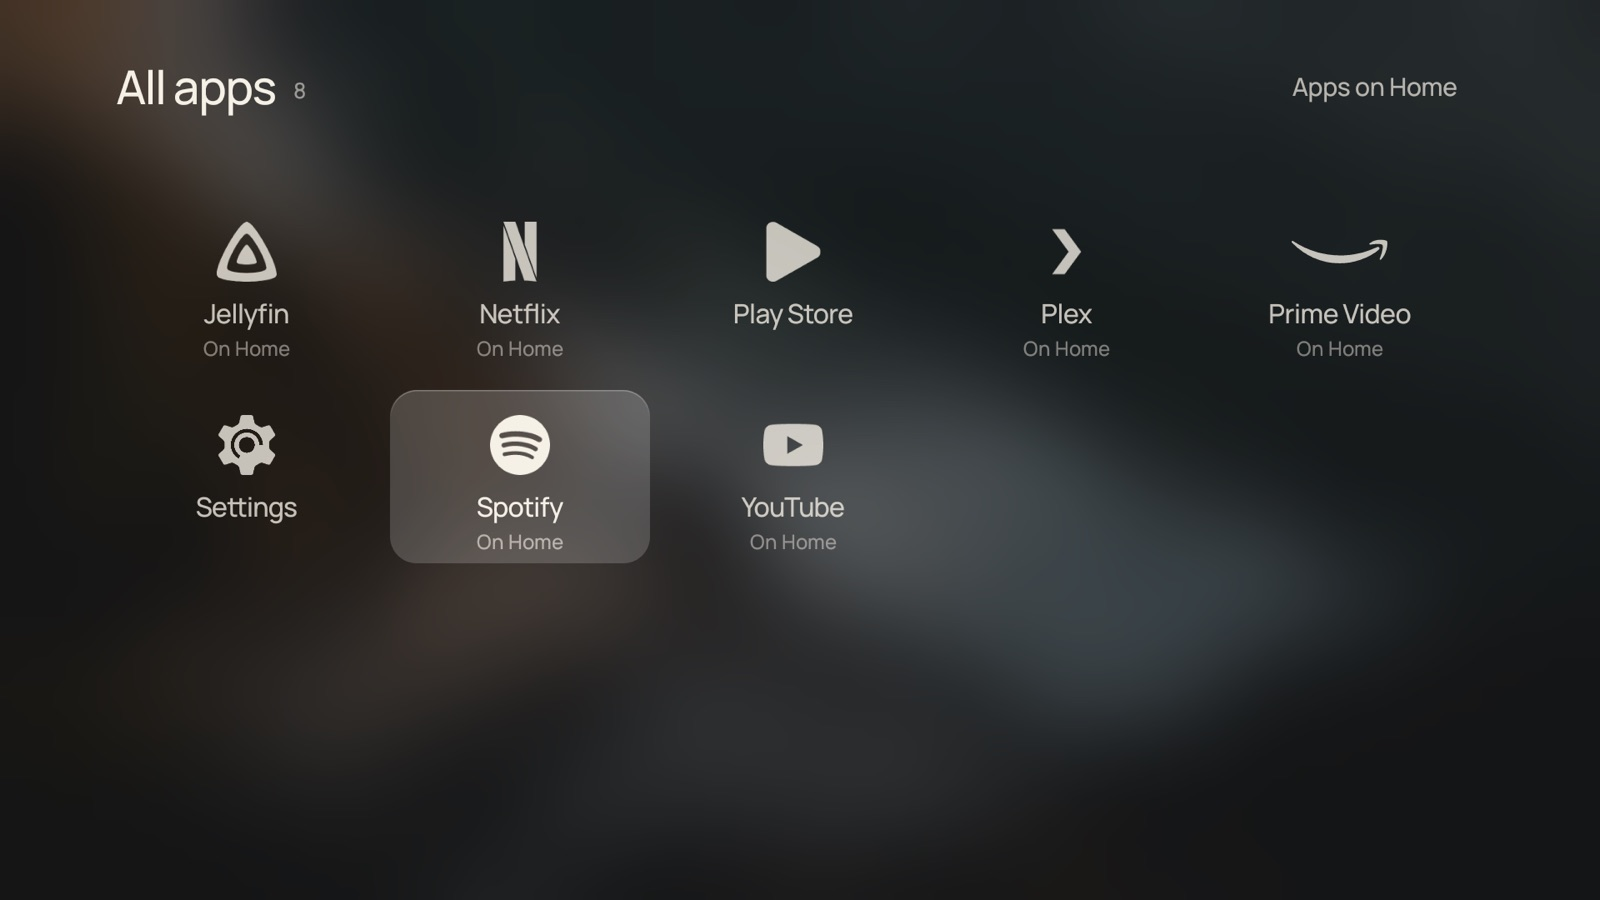
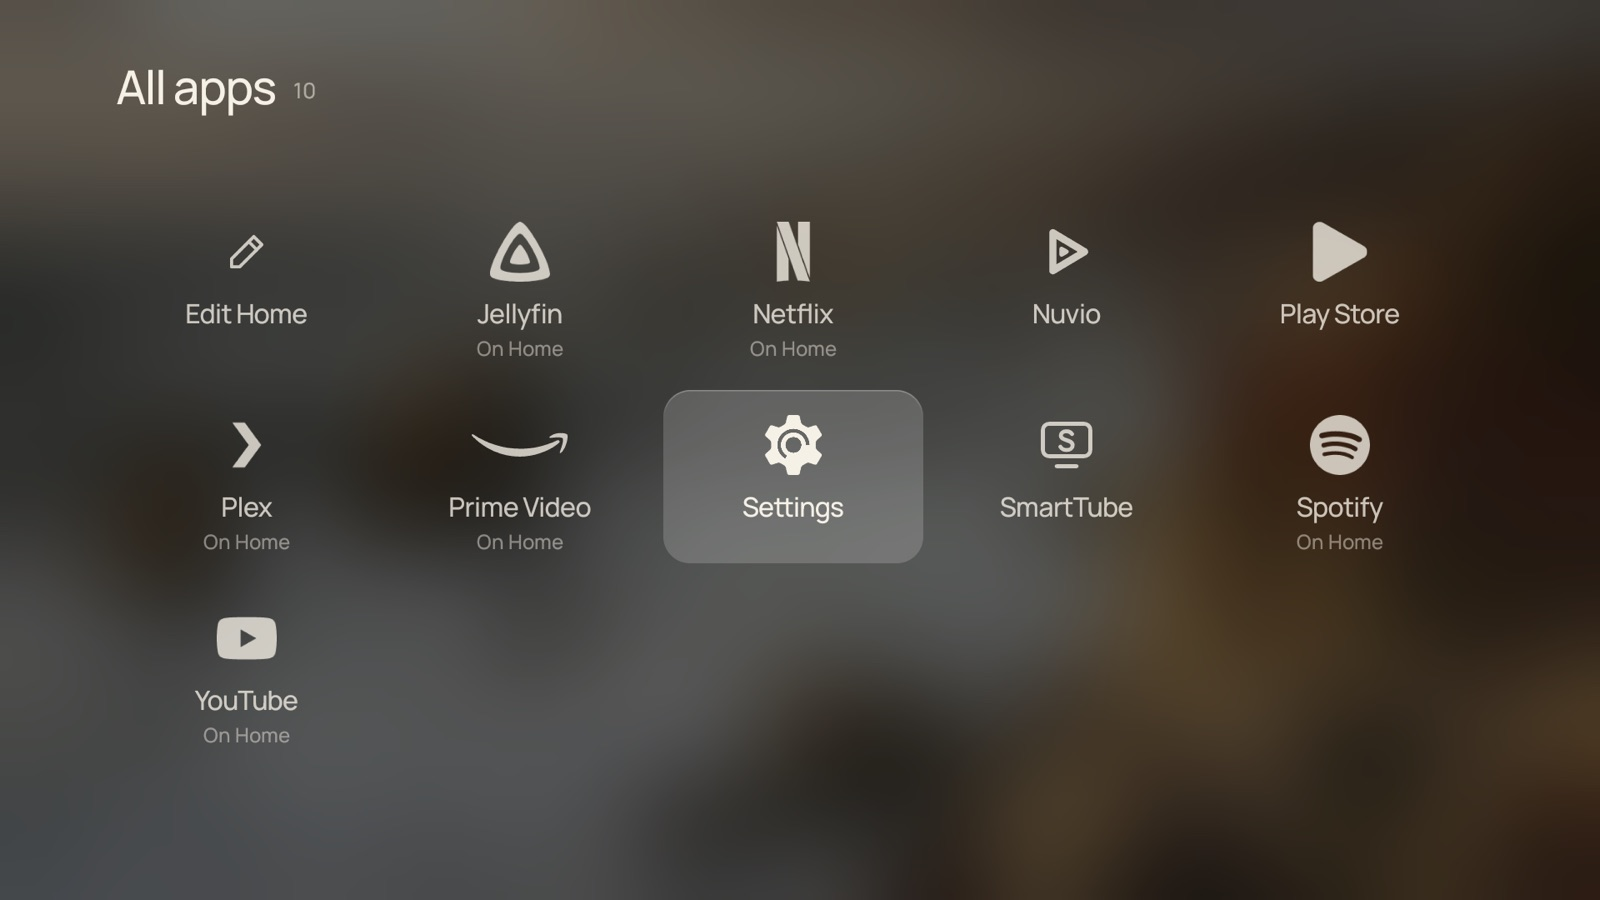
Actions as tiles in the grid, not header buttons
All apps starts with an Edit Home tile, the button picker with Default
(the button's own job), and When the TV turns on with Show Home. The
focus opens on the current choice, which has a Current badge. The
Remove and Apps on Home buttons outside the grid are gone. New edit
and default icons; README text and screenshots updated.

diff --git a/src/io/github/fballiano/quiethome/AllAppsScreen.java b/src/io/github/fballiano/quiethome/AllAppsScreen.java
@@ -8,67 +8,61 @@ import android.graphics.RectF;
 import android.graphics.Typeface;
 
 import java.util.ArrayList;
+import java.util.Collections;
 import java.util.List;
 
 /**
- * Every installed app and HDMI input in a five-column grid. OK opens, holding OK closes, and Up
- * from the first row reaches Apps on Home. As a picker it chooses what a mapped button does:
- * the button actions come first, then the apps and inputs.
+ * Every installed app and HDMI input in a five-column grid. OK opens and holding OK closes. As a
+ * picker it chooses one item, for example what a mapped button does. Actions are tiles at the
+ * start of the grid, never buttons outside it, so the arrows reach everything the same way.
  */
 final class AllAppsScreen extends Screen {
     interface Picker {
         void pick(String id);
-
-        void remove();
     }
 
     private static final int COLS = 5, VISIBLE_ROWS = 3;
     private static final float LEFT = 140, TOP = 236, TILE_W = 312, TILE_H = 208, PITCH_X = 328, PITCH_Y = 232;
 
     private final Picker picker;
-    private final boolean actions;
+    /** The tiles before the apps: Edit Home in All apps, the choices that are not apps in a picker. */
+    private final List<Catalog.Entry> lead;
     private final String title;
-    private final String assigned;
+    /** The picker's current choice: it gets the Current badge, and the focus starts on it. */
+    private final String current;
     private final List<Catalog.Entry> list = new ArrayList<>();
     private final Ui.Anim scroll = new Ui.Anim(Ui.SCROLL_MS), plateX = new Ui.Anim(Ui.FOCUS_MS), plateY = new Ui.Anim(Ui.FOCUS_MS);
     private final RectF r = new RectF();
-    private int focus, lastFocus;
+    private int focus;
     private boolean snap = true;
 
-    AllAppsScreen(Stage stage, Picker picker) {
-        this(stage, picker, "All apps", null);
-    }
-
-    /** A picker; assigned is the current choice, which gets a Remove button. */
-    AllAppsScreen(Stage stage, Picker picker, String title, String assigned) {
-        this(stage, picker, title, assigned, true);
-    }
-
-    /** A picker that offers only apps and inputs, without the button actions. */
-    AllAppsScreen(Stage stage, Picker picker, String title, String assigned, boolean actions) {
-        super(stage);
-        this.actions = actions;
-        this.picker = picker;
-        this.title = title;
-        this.assigned = assigned;
-        refresh();
-        if (assigned != null) for (int i = 0; i < list.size(); i++) if (list.get(i).id.equals(assigned)) focus = i;
+    /** All apps: Edit Home, then the apps. The focus starts on the first app. */
+    AllAppsScreen(Stage stage) {
+        this(stage, null, "All apps", Collections.singletonList(new Catalog.Entry(Catalog.ACTION_EDIT, "Edit Home", null, null)), null);
+        if (list.size() > 1) focus = 1;
         targets();
     }
 
-    private boolean hasButton() {
-        return picker == null || assigned != null;
+    /** A picker: the lead tiles, then the apps and inputs. */
+    AllAppsScreen(Stage stage, Picker picker, String title, List<Catalog.Entry> lead, String current) {
+        super(stage);
+        this.picker = picker;
+        this.title = title;
+        this.lead = lead;
+        this.current = current;
+        refresh();
+        for (int i = 0; i < list.size(); i++) if (list.get(i).id.equals(current)) focus = i;
+        targets();
     }
 
     @Override
     void refresh() {
-        String focused = focus >= 0 && focus < list.size() ? list.get(focus).id : null;
+        String focused = focus < list.size() ? list.get(focus).id : null;
         list.clear();
-        if (picker != null && actions) list.addAll(Catalog.actions());
+        list.addAll(lead);
         list.addAll(stage.catalog.all());
         if (focus >= list.size()) focus = list.size() - 1;
         for (int i = 0; i < list.size(); i++) if (list.get(i).id.equals(focused)) focus = i;
-        if (list.isEmpty()) focus = hasButton() ? -1 : 0;
         targets();
     }
 
@@ -80,17 +74,11 @@ final class AllAppsScreen extends Screen {
     @Override
     void move(int dx, int dy) {
         int n = list.size();
-        if (focus < 0) {
-            if (dy > 0 && n > 0) focus = Math.min(lastFocus, n - 1);
-        } else if (dx != 0) {
+        if (dx != 0) {
             int next = focus + dx;
             if (next >= 0 && next < n && next / COLS == focus / COLS) focus = next;
         } else if (dy < 0) {
             if (focus >= COLS) focus -= COLS;
-            else if (hasButton()) {
-                lastFocus = focus;
-                focus = -1;
-            }
         } else if (dy > 0) {
             if (focus + COLS < n) focus += COLS;
             else if ((n - 1) / COLS > focus / COLS) focus = n - 1;
@@ -99,7 +87,6 @@ final class AllAppsScreen extends Screen {
     }
 
     private void targets() {
-        if (focus < 0) return;
         int row = focus / COLS, rows = (list.size() + COLS - 1) / COLS;
         float s = scroll.target;
         if (row < s) s = row;
@@ -111,20 +98,19 @@ final class AllAppsScreen extends Screen {
 
     @Override
     boolean holdable() {
-        return picker == null && focus >= 0;
+        return picker == null && focus < list.size() && !Catalog.isAction(list.get(focus).id);
     }
 
     @Override
     void ok() {
-        if (focus < 0) {
-            if (picker != null) picker.remove();
-            else stage.open(new EditorScreen(stage));
-            return;
-        }
         if (list.isEmpty()) return;
         Catalog.Entry e = list.get(focus);
         if (picker != null) {
             picker.pick(e.id);
+            return;
+        }
+        if (Catalog.ACTION_EDIT.equals(e.id)) {
+            stage.open(new EditorScreen(stage));
             return;
         }
         String error = stage.catalog.launch(e.id);
@@ -134,7 +120,7 @@ final class AllAppsScreen extends Screen {
 
     @Override
     void okLong() {
-        if (focus < 0 || list.isEmpty()) return;
+        if (!holdable()) return;
         Catalog.Entry e = list.get(focus);
         String error = stage.catalog.close(e.id);
         stage.toast(error != null ? error : "Closed " + Catalog.title(e) + ".");
@@ -161,21 +147,12 @@ final class AllAppsScreen extends Screen {
         ui.text(regular, 56, -1.6f, ink, 1);
         float w = ui.line(c, title, LEFT, ui.baseline(104), 1200, -1);
         ui.text(regular, 26, 0, ink, 0.55f);
-        if (picker == null) ui.line(c, String.valueOf(list.size()), LEFT + w + 20, ui.baseline(108), 0, -1);
-        if (hasButton()) {
-            String label = picker == null ? "Apps on Home" : "Remove";
-            ui.text(regular, 30, -0.3f, ink, 1);
-            float bw = ui.width(label) + 60;
-            r.set(LEFT + 1640 - bw, 72, LEFT + 1640, 136);
-            if (focus < 0) ui.plate(c, r, 32, bg, 1);
-            ui.text(regular, 30, -0.3f, ink, focus < 0 ? 1 : 0.7f);
-            ui.line(c, label, r.centerX(), ui.baseline(r.centerY()), 0, 0);
-        }
+        if (picker == null) ui.line(c, String.valueOf(list.size() - lead.size()), LEFT + w + 20, ui.baseline(108), 0, -1);
 
         c.save();
         c.clipRect(0, TOP - 24, Ui.W, Ui.H);
         float sy = scroll.value;
-        if (focus >= 0) {
+        if (!list.isEmpty()) {
             float x = LEFT + plateX.value * PITCH_X, y = TOP + (plateY.value - sy) * PITCH_Y;
             r.set(x, y, x + TILE_W, y + TILE_H);
             ui.plate(c, r, 32, bg, 1);
@@ -190,15 +167,12 @@ final class AllAppsScreen extends Screen {
             stage.drawMark(c, e, cx - 60, y + 30, 120, 72, ink, a);
             ui.text(regular, 32, -0.6f, ink, a);
             ui.line(c, Catalog.title(e), cx, ui.baseline(y + 140), TILE_W - 24, 0);
-            String state = picker == null ? (home.contains(e.id) ? "On Home" : null) : (e.id.equals(assigned) ? "Assigned" : null);
+            String state = picker == null ? (home.contains(e.id) ? "On Home" : null)
+                : e.id.equals(current) ? "Current" : Catalog.ACTION_DEFAULT.equals(e.id) ? "Its own job" : null;
             if (state != null) {
                 ui.text(regular, 24, 0, ink, 0.6f * a);
                 ui.line(c, state, cx, ui.baseline(y + 182), 0, 0);
             }
-        }
-        if (list.isEmpty()) {
-            ui.text(regular, 36, -0.6f, ink, 0.7f);
-            ui.line(c, "No apps found.", LEFT, ui.baseline(TOP + 60), 0, -1);
         }
         c.restore();
         return moving;

diff --git a/src/io/github/fballiano/quiethome/SettingsScreen.java b/src/io/github/fballiano/quiethome/SettingsScreen.java
@@ -9,6 +9,7 @@ import android.graphics.RectF;
 import android.graphics.Typeface;
 
 import java.util.ArrayList;
+import java.util.Collections;
 import java.util.List;
 import java.util.Map;
 import java.util.function.BooleanSupplier;
@@ -223,47 +224,36 @@ final class SettingsScreen extends Screen {
     /** For a TV that only shows a box on HDMI: open that input (or an app) at boot and on wake. */
     private void pickStartOn() {
         String current = stage.prefs.get(Prefs.START_ON);
+        List<Catalog.Entry> lead = Collections.singletonList(new Catalog.Entry(Catalog.ACTION_HOME, "Show Home", null, null));
         AllAppsScreen[] picker = new AllAppsScreen[1];
-        picker[0] = new AllAppsScreen(stage, new AllAppsScreen.Picker() {
-            @Override
-            public void pick(String id) {
-                stage.prefs.set(Prefs.START_ON, id);
-                stage.close(picker[0]);
-                Catalog.Entry e = stage.catalog.get(id);
-                stage.toast("The TV opens " + (e == null ? id : Catalog.title(e)) + " when it turns on.");
-            }
-
-            @Override
-            public void remove() {
-                stage.prefs.set(Prefs.START_ON, "");
-                stage.close(picker[0]);
-                stage.toast("The TV shows Home when it turns on.");
-            }
-        }, "Open when the TV turns on", current.isEmpty() ? null : current, false);
+        picker[0] = new AllAppsScreen(stage, id -> {
+            boolean home = Catalog.ACTION_HOME.equals(id);
+            stage.prefs.set(Prefs.START_ON, home ? "" : id);
+            stage.close(picker[0]);
+            Catalog.Entry e = stage.catalog.get(id);
+            stage.toast(home ? "The TV shows Home when it turns on."
+                : "The TV opens " + (e == null ? id : Catalog.title(e)) + " when it turns on.");
+        }, "Open when the TV turns on", lead, current.isEmpty() ? Catalog.ACTION_HOME : current);
         stage.open(picker[0]);
     }
 
     /** Chooses, changes or removes what a mapped button does. */
     private void pick(int code) {
         String name = RemoteButtons.name(code);
+        String current = stage.prefs.buttons().get(code);
+        List<Catalog.Entry> lead = new ArrayList<>();
+        lead.add(new Catalog.Entry(Catalog.ACTION_DEFAULT, "Default", null, null));
+        lead.addAll(Catalog.actions());
         AllAppsScreen[] picker = new AllAppsScreen[1];
-        picker[0] = new AllAppsScreen(stage, new AllAppsScreen.Picker() {
-            @Override
-            public void pick(String id) {
-                stage.prefs.setButton(code, id);
-                stage.close(picker[0]);
-                Catalog.Entry e = stage.catalog.get(id);
-                stage.toast(Catalog.ACTION_NONE.equals(id) ? name + " now does nothing."
-                    : name + " opens " + (e == null ? id : Catalog.title(e)) + ".");
-            }
-
-            @Override
-            public void remove() {
-                stage.prefs.setButton(code, null);
-                stage.close(picker[0]);
-                stage.toast(name + " is free again.");
-            }
-        }, "Choose what " + name + " does", stage.prefs.buttons().get(code));
+        picker[0] = new AllAppsScreen(stage, id -> {
+            boolean free = Catalog.ACTION_DEFAULT.equals(id);
+            stage.prefs.setButton(code, free ? null : id);
+            stage.close(picker[0]);
+            Catalog.Entry e = stage.catalog.get(id);
+            stage.toast(free ? name + " does its own job again."
+                : Catalog.ACTION_NONE.equals(id) ? name + " now does nothing."
+                : name + " opens " + (e == null ? id : Catalog.title(e)) + ".");
+        }, "Choose what " + name + " does", lead, current == null ? Catalog.ACTION_DEFAULT : current);
         stage.open(picker[0]);
     }
 

diff --git a/src/io/github/fballiano/quiethome/Stage.java b/src/io/github/fballiano/quiethome/Stage.java
@@ -256,7 +256,9 @@ final class Stage extends View {
         }
         if (Catalog.isAction(e.id)) {
             int mark = Catalog.ACTION_HOME.equals(e.id) ? R.drawable.icon_home
-                : Catalog.ACTION_SETTINGS.equals(e.id) ? R.drawable.icon_tvsettings : R.drawable.icon_none;
+                : Catalog.ACTION_SETTINGS.equals(e.id) ? R.drawable.icon_tvsettings
+                : Catalog.ACTION_DEFAULT.equals(e.id) ? R.drawable.icon_default
+                : Catalog.ACTION_EDIT.equals(e.id) ? R.drawable.icon_edit : R.drawable.icon_none;
             float size = Math.min(w, h) * 0.8f;
             ui.mark(c, mark, left + (w - size) / 2, top + (h - size) / 2, size, size, ink, alpha);
             return;

diff --git a/src/io/github/fballiano/quiethome/Catalog.java b/src/io/github/fballiano/quiethome/Catalog.java
@@ -63,6 +63,8 @@ final class Catalog {
 
     /** Things a mapped button can do besides opening an app or an input. */
     static final String ACTION_NONE = "action.none", ACTION_HOME = "action.home", ACTION_SETTINGS = "action.settings";
+    /** Picker tiles only, never saved: a button's own job, and the Apps on Home editor. */
+    static final String ACTION_DEFAULT = "action.default", ACTION_EDIT = "action.edit";
 
     /** HOME activities with these words in their package are system tools, not home screens to switch to. */
     private static final Pattern TOOL_HOMES = Pattern.compile("setup|provision|settings|factory|wraith");

diff --git a/tools/svg2vector.py b/tools/svg2vector.py
@@ -22,7 +22,7 @@ NS = "{http://www.w3.org/2000/svg}"
 ICONS = ["primevideo", "youtube", "netflix", "jellyfin", "twitch", "appletv", "stremio",
          "spotify", "hbomax", "tubi", "plex", "nuvio", "smarttube", "kodi", "vlc", "emby", "crunchyroll",
          "paramountplus", "dazn", "mubi", "steamlink", "youtubemusic", "youtubekids", "tidal", "deezer",
-         "console", "apps", "settings", "tvsettings", "home"]
+         "console", "apps", "settings", "tvsettings", "home", "edit", "default"]
 
 
 def num(value):

diff --git a/src/io/github/fballiano/quiethome/HomeScreen.java b/src/io/github/fballiano/quiethome/HomeScreen.java
@@ -165,7 +165,7 @@ final class HomeScreen extends Screen {
             press.to(0);
             return;
         }
-        if (control == 0) stage.open(new AllAppsScreen(stage, null));
+        if (control == 0) stage.open(new AllAppsScreen(stage));
         else if (control == 1) stage.open(new SettingsScreen(stage));
         else stage.toast(stage.catalog.openSettings());
     }

diff --git a/README.md b/README.md
@@ -19,7 +19,7 @@ QuietHome is inspired by [CleanFrame](https://github.com/nthnclrk/CleanFrame), a
 - **One-colour icons.** Known services use a built-in mark. For every other app, QuietHome turns the app's own icon into a mark in the same colour.
 - **Backgrounds.** Choose one of 15 photographs, a light colour or a dark colour. Photos can rotate each time Home opens, or every 5, 15 or 60 minutes.
 - **Two settings buttons.** Settings (the sliders) opens QuietHome's settings. TV settings (the gear) opens Android's own settings.
-- **All apps.** It shows every TV app and every HDMI input. OK opens the item. Hold OK to close an app and free its memory.
+- **All apps.** It shows every TV app and every HDMI input. OK opens the item. Hold OK to close an app and free its memory. The first tile, **Edit Home**, opens the Apps on Home editor.
 - **Your own order.** Hold OK on an app on Home for a short menu: **Move**, **Remove from Home** or **Close app**. In move mode the arrows move the app, OK places it and Back cancels. Settings → Apps on Home adds apps, with up to nine on Home.
 - **Typography and focus.** Choose Manrope, Geist or Newsreader. Choose Type focus or Glass focus, with a Soft, Frost or Clear material.
 - **The QuietHome service.** An accessibility service that gives QuietHome the features below. If it is off, QuietHome shows how to turn it on.
@@ -154,9 +154,9 @@ On most Android TV and Google TV devices, the stock launcher is a system app wit
 
 1. Go to Settings → Button mapping. The QuietHome service must be on.
 2. Select **Add a button**. Press the remote button, then choose what it does.
-3. To change or remove a mapping, select the button in the list.
+3. To change a mapping, select the button in the list. To remove it, choose **Default**: the button then does its own job again.
 
-![Choosing what a button does: Nothing, QuietHome, TV settings, or an app](docs/images/picker.jpg)
+![Choosing what a button does: Default, Nothing, QuietHome, TV settings, or an app](docs/images/picker.jpg)
 
 You cannot map these keys: arrows, OK, Back, Home, volume, mute and power. They always keep their usual job.
 
@@ -164,7 +164,7 @@ Android lets an accessibility service see key presses. QuietHome acts only on Ho
 
 ## When the TV turns on
 
-Go to Settings → Android TV → When the TV turns on, and choose the HDMI input of your box (or an app). QuietHome opens it at boot and each time the TV wakes from standby. At boot the TV can list its inputs a few seconds late, so QuietHome tries again for about 30 seconds. To show Home again at start, select **Remove** in the same screen. Press Home on the remote to reach QuietHome at any time.
+Go to Settings → Android TV → When the TV turns on, and choose the HDMI input of your box (or an app). QuietHome opens it at boot and each time the TV wakes from standby. At boot the TV can list its inputs a few seconds late, so QuietHome tries again for about 30 seconds. To show Home again at start, choose **Show Home**, the first tile in the same screen. Press Home on the remote to reach QuietHome at any time.
 
 This needs the QuietHome service: Android lets an app open another screen from the background only with a service like this.
 

diff --git a/THIRD_PARTY_NOTICES.md b/THIRD_PARTY_NOTICES.md
@@ -41,7 +41,7 @@ The SVG sources are in `tools/icons/`. `tools/icons/SOURCES.md` lists the source
 | Material | Terms |
 | --- | --- |
 | [Simple Icons](https://simpleicons.org) marks (Prime Video, YouTube, Netflix, Jellyfin, Twitch, Apple TV, Stremio, Spotify, HBO Max, Tubi, Kodi, VLC, Emby, Crunchyroll, Paramount+, DAZN, MUBI, Steam, YouTube Music, YouTube Kids, Tidal, Deezer) | CC0. See `tools/icons/SIMPLE-ICONS-LICENSE.txt`. |
-| Apps, settings, TV settings, home, game console and "nothing" icons, the app icon and the banner | Drawn for QuietHome, under the project's licence. |
+| Apps, settings, TV settings, home, edit, default, game console and "nothing" icons, the app icon and the banner | Drawn for QuietHome, under the project's licence. |
 | Nuvio, SmartTube and Plex marks | Monochrome marks drawn for QuietHome after the apps' logos. The names and logos belong to their owners. |
 | Icons of installed apps | Read from the TV at runtime and turned into one-colour marks on the TV. They are not part of QuietHome. Disney+ and Hulu always use their own app icon, because Disney does not allow its marks in projects like this. |
 

diff --git a/tools/icons/SOURCES.md b/tools/icons/SOURCES.md
@@ -3,7 +3,7 @@
 | File | Source | Terms |
 | --- | --- | --- |
 | `primevideo`, `youtube`, `netflix`, `jellyfin`, `twitch`, `appletv`, `stremio`, `spotify`, `hbomax`, `tubi`, `kodi`, `emby`, `crunchyroll`, `paramountplus`, `dazn`, `mubi`, `youtubemusic`, `youtubekids`, `tidal`, `deezer`, `vlc` (`vlcmediaplayer`), `steamlink` (`steam`) | [Simple Icons](https://simpleicons.org), some with the viewBox trimmed to the mark | CC0 (`SIMPLE-ICONS-LICENSE.txt`) |
-| `apps`, `settings`, `tvsettings`, `home`, `console` | Drawn for QuietHome | As the project |
+| `apps`, `settings`, `tvsettings`, `home`, `edit`, `default`, `console` | Drawn for QuietHome | As the project |
 | `nuvio`, `smarttube`, `plex` | Monochrome marks drawn for QuietHome after the Nuvio, SmartTube, and Plex logos | As the project; the logos and names belong to their owners |
 
 Brand marks identify services. Their owners keep their trademark rights.
